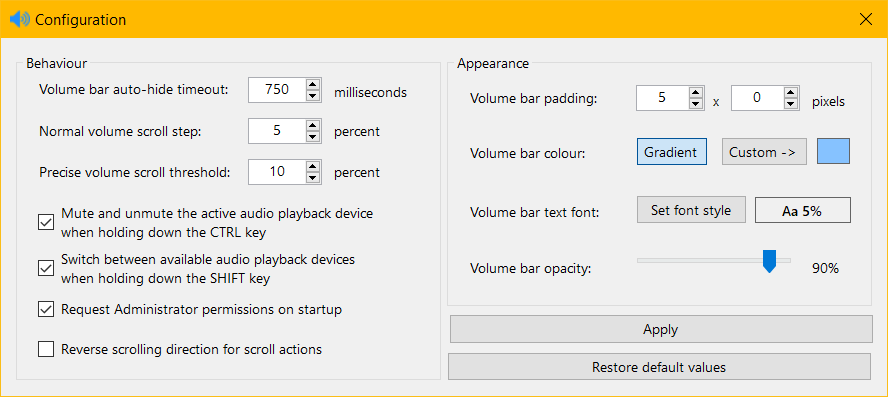
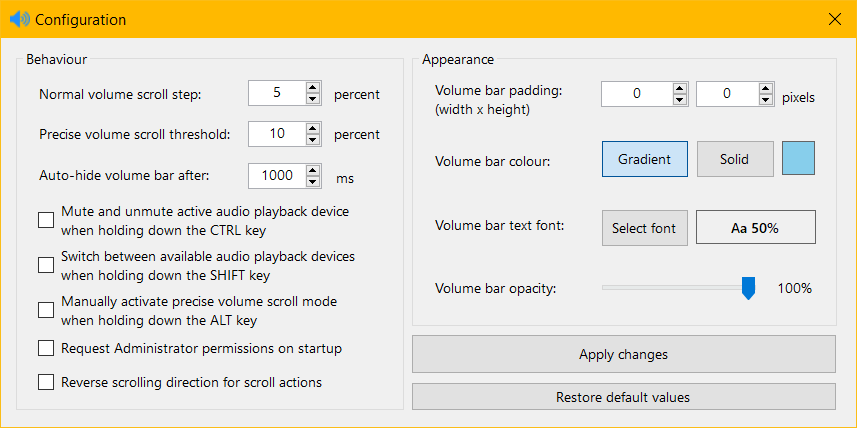
Bump version to 3.6

diff --git a/Properties/AssemblyInfo.cs b/Properties/AssemblyInfo.cs
@@ -32,5 +32,5 @@ using System.Runtime.InteropServices;
 // You can specify all the values or you can default the Build and Revision Numbers
 // by using the '*' as shown below:
 // [assembly: AssemblyVersion("1.0.*")]
-[assembly: AssemblyVersion("3.5")]
-[assembly: AssemblyFileVersion("3.5")]
+[assembly: AssemblyVersion("3.6")]
+[assembly: AssemblyFileVersion("3.6")]

diff --git a/README.md b/README.md
@@ -1,5 +1,5 @@
 [![Run on Repl.it](https://repl.it/badge/github/dvingerh/TbVolScroll)](https://repl.it/github/dvingerh/TbVolScroll) 
-## tb-vol-scroll 3.5
+## tb-vol-scroll 3.6
 
 Simple utility to enable volume control when your mouse cursor is positioned above the taskbar, among a few other options.
 
@@ -32,6 +32,7 @@ The volume bar will follow the cursor when it's moved around and display the cur
   - Precise volume control threshold
   - Enable/disable <kbd>CTRL</kbd> to toggle system audio mute
   - Enable/disable <kbd>SHIFT</kbd> to cycle through available audio playback devices
+  - Enable/disable <kbd>ALT</kbd> to manually enable precise volume control
   - Enable/disable requesting of Administrator permissions on start
   - Enable/disable reverse scrolling direction for scroll actions
 
@@ -39,6 +40,7 @@ The volume bar will follow the cursor when it's moved around and display the cur
 
 - The auto-hide taskbar feature is **not** supported. 
 - Windows prevents scroll event detection while certain windows are focused (i.e. Task Manager) when the program does not have Administrator privileges.
+- Changing or removing audio playback devices can result in bugs or crashes under certain circumstances.
 
 ## Preview (not always up-to-date)
 
